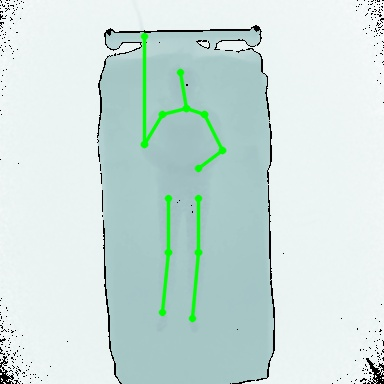
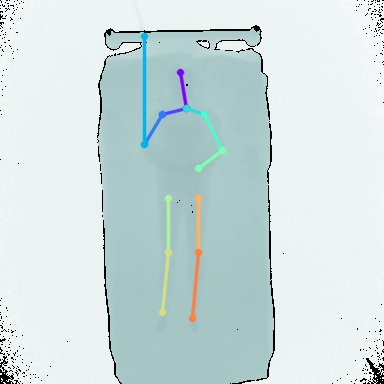
feat(inference): add extracting gt depth keypoints

diff --git a/runInferenceV2.py b/runInferenceV2.py
@@ -11,6 +11,32 @@ import utils.vis as vis
 import utils.utils as ut
 import cv2
 
+import scipy.io as sio
+
+def getSimLabDepthGTs(subj):
+    joints_gt_RGB_t = sio.loadmat(os.path.join("SLP/simLab", '{:05d}'.format(subj), 'joints_gt_RGB.mat'))['joints_gt'] # 3 x n_jt x n_frm -> n_jt x 3
+    # print('joints gt shape', joints_gt_RGB_t.shape) #! joints gt shape (3, 14, 45)
+    joints_gt_RGB_t = joints_gt_RGB_t.transpose([2, 1, 0])
+    joints_gt_RGB_t = joints_gt_RGB_t - 1  # to 0 based # note third dim seems unised as all values are = -1.0
+    # print('joints gt shape', joints_gt_RGB_t.shape) #! joints gt shape (45, 14, 3)
+    # print(joints_gt_RGB_t[0]) #! [[ 2.55719178e+02  1.20155479e+03 -1.00000000e+00], ... ]
+
+    # load pointers for base modality (RGB) and target modality (depth)
+    pth_PTr_depth = os.path.join("SLP/simLab", '{:05d}'.format(subj), 'align_PTr_depth.npy')
+    PTr_depth = np.load(pth_PTr_depth)
+    pth_PTr_RGB = os.path.join("SLP/simLab", '{:05d}'.format(subj), 'align_PTr_RGB.npy')
+    PTr_RGB = np.load(pth_PTr_RGB)
+
+    # homography RGB to depth #! stolen from SLP (no idea how it works but it converts RGB_gts to depth_gts)
+    PTr_RGB2depth = np.dot(np.linalg.inv(PTr_depth), PTr_RGB)
+    PTr_RGB2depth = PTr_RGB2depth / np.linalg.norm(PTr_RGB2depth)
+    joints_gt_depth_t = np.array(list(
+    map(lambda x: cv2.perspectiveTransform(np.array([x]), PTr_RGB2depth)[0], joints_gt_RGB_t[:, :, :2])))
+    joints_gt_depth_t = np.concatenate([joints_gt_depth_t, joints_gt_RGB_t[:, :, 2, None]], axis=2)
+    # print('joints gt_depth shape', joints_gt_depth_t.shape) #! joints gt shape (45, 14, 3)
+    # print(joints_gt_depth_t)
+    return joints_gt_depth_t
+
 def main():
     model = loadPretrainedModel()
 
@@ -22,7 +48,12 @@ def main():
     cover = constants.CoverType.UNCOVER
     poseNum = 1
 
-    fullScale_img = readAndCropDepthPngFromSimLab(subj=subj, cover=cover, poseNum=poseNum)
+    joints_gt_depth_all = getSimLabDepthGTs(subj=subj)
+    # print(f"max x or y in gts: {np.max(joints_gt_depth_all)}") #! max x or y in gts: 387.59526927382143
+
+    joints_gt_depth = joints_gt_depth_all[poseNum] #! (14, 3) --> [x, y, vis]
+    fullScale_img, yInset, xInset = readAndCropDepthPngFromSimLab(subj=subj, cover=cover, poseNum=poseNum)
+    joints_gt_depth[:, :2] = joints_gt_depth[:, :2] - [yInset, xInset]
     input_img = preparePngForInference(fullScale_img)
     
     input = input_img.unsqueeze(0) # Add batch dimension to make it [1, channels, height, width]
@@ -36,10 +67,9 @@ def main():
         # scale predictions (currently [64,64] to input image size [256, 256] #! note different models will have different sizes
         pred2d_patch = np.ones((preds.shape[0], 3)) # incude visibility flag = 1 (true for all)
         pred2d_patch[:,:2] = preds / heatmaps.shape[1] * fullScale_img.shape[0] #! map preds to input image coords (from [0-64] to orig pixels)
-        print(f"fullScale_img.shape: {fullScale_img.shape}")
+        # print(f"fullScale_img.shape: {fullScale_img.shape}") #! (384, 384)
 
         img_patch_vis = cv2.applyColorMap(fullScale_img, cv2.COLORMAP_BONE) # get image in rgb (h, w, 3)
-
         '''
         TARGET:
         vis.vis_keypoints --> 
@@ -67,8 +97,9 @@ def main():
         sv_dir = os.path.join(sv_dir, '2d' + suffix) # make save directory
         if not os.path.exists(sv_dir): os.makedirs(sv_dir)
 
-        # tmpimg = vis.vis_keypoints(img_patch, pred_2d, skel, is_gt=True) # plot gts
         tmpimg = vis.vis_keypoints(img_patch, pred_2d, skel) # plot preds
+        print(joints_gt_depth)
+        tmpimg = vis.vis_keypoints(tmpimg, joints_gt_depth, skel, is_gt=True) # plot gts
 
         cv2.imwrite(os.path.join(sv_dir, str(idx) + '.jpg'), tmpimg)
 

diff --git a/loadImageCustom.py b/loadImageCustom.py
@@ -123,7 +123,7 @@ def readAndCropDepthPngFromSimLab(subj=1, cover: constants.CoverType = constants
     newMinX = (origWidth - newSize) // 2 + int(origWidth * shiftPercentageYX[1])
     img = img[newMinY:newMinY+newSize, newMinX:newMinX+newSize]
 
-    return img
+    return img, newMinY, newMinX
 
 
 def Original_readDepthPng(idx:int, cover='u'):
